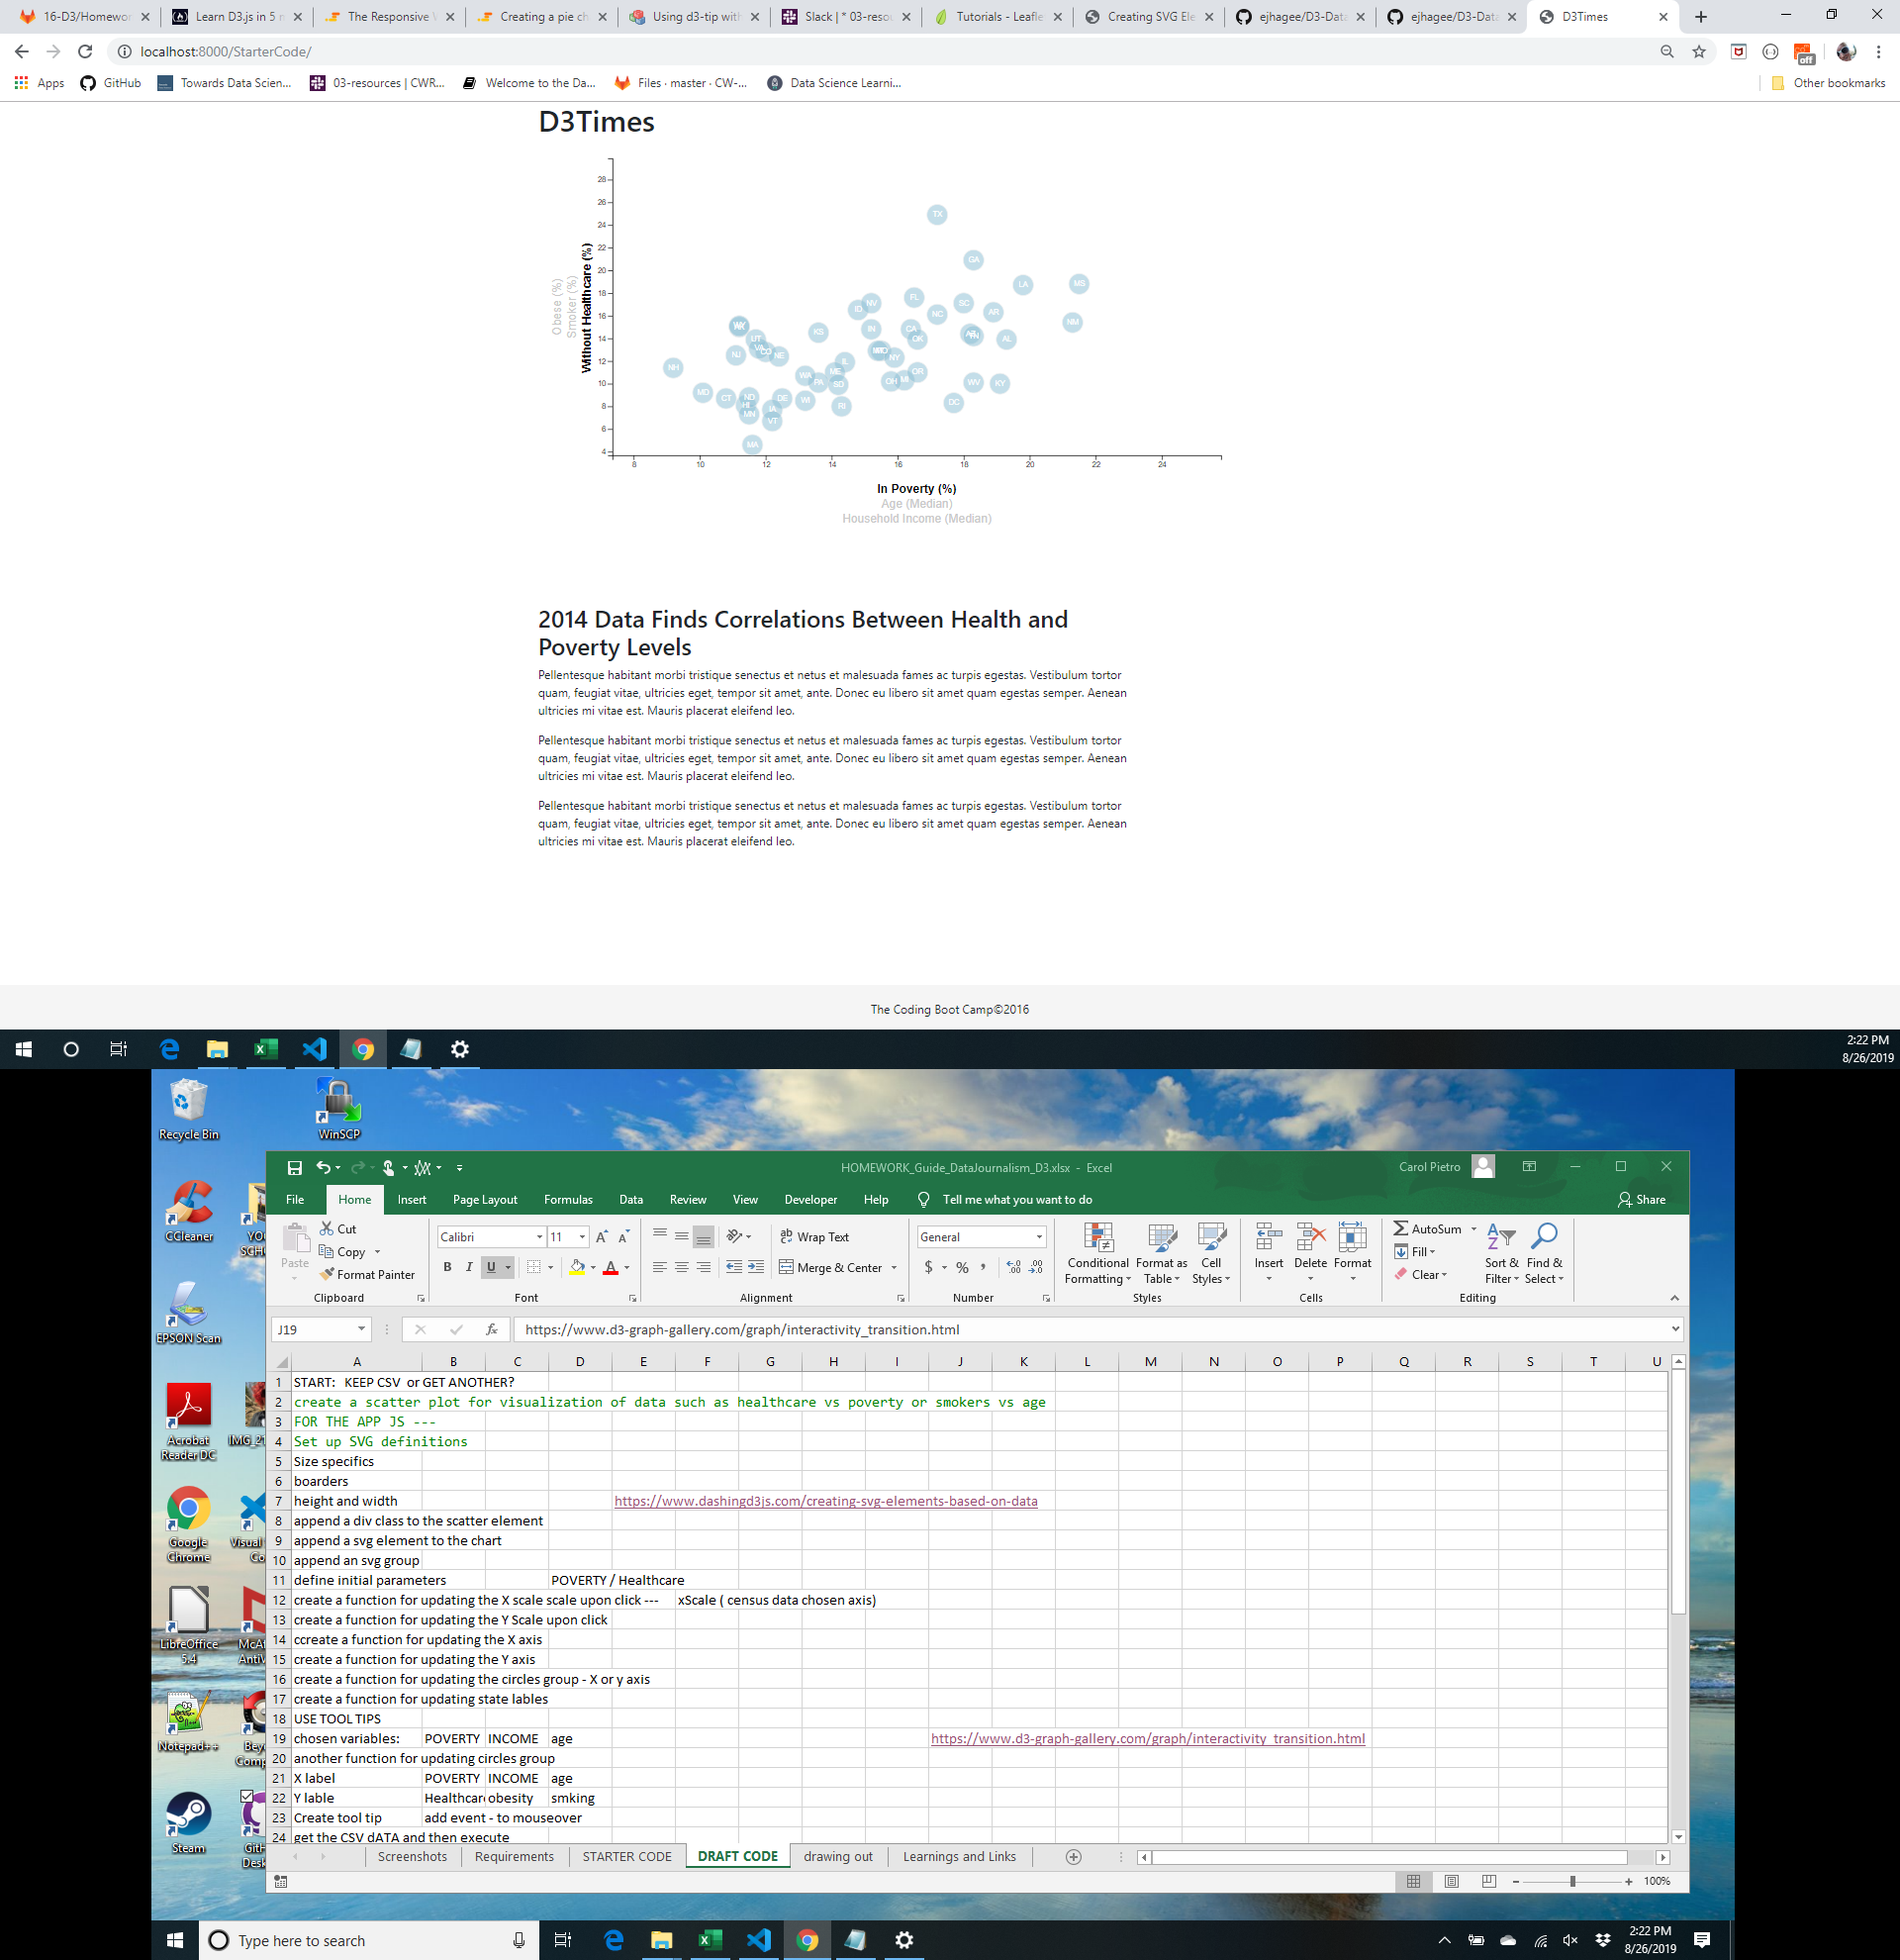
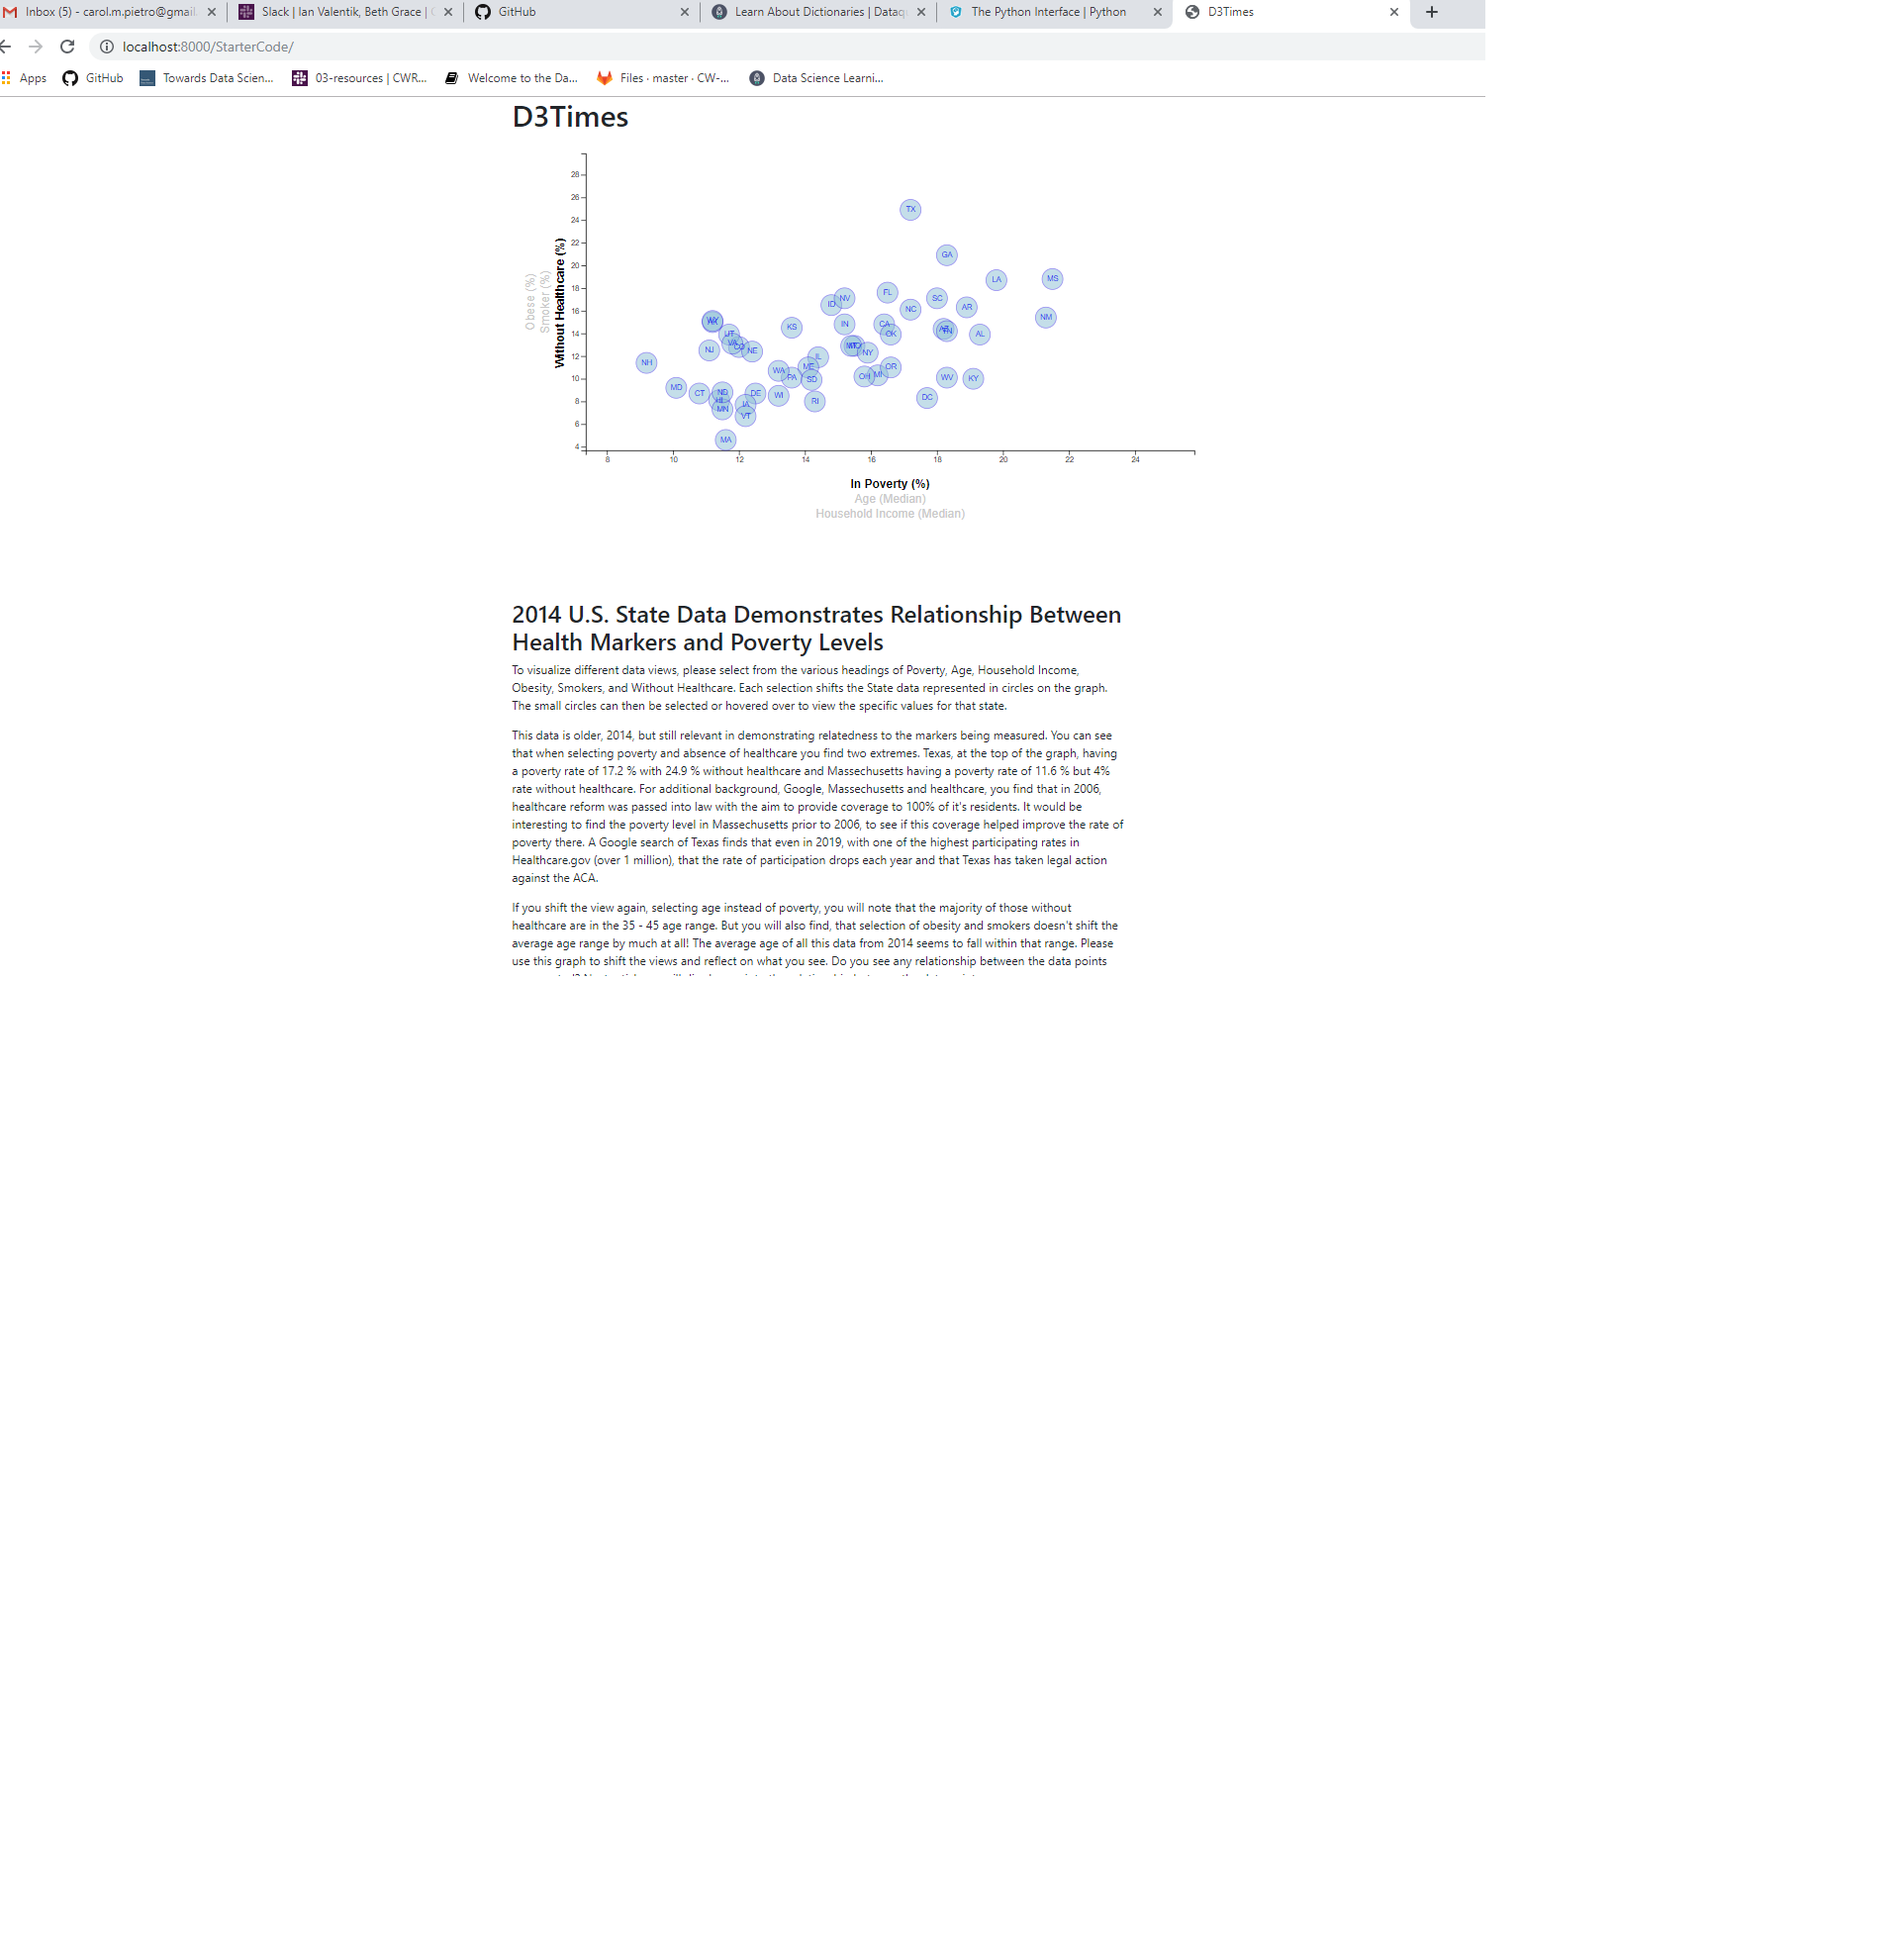
FINAL

diff --git a/index.html b/index.html
@@ -34,18 +34,27 @@
     <div class="row">
       <div class="col-xs-12  col-md-9">
         <div class="article">
-          <h2>2014 Data Finds Correlations Between Health and Poverty Levels</h2>
-          <p>Pellentesque habitant morbi tristique senectus et netus et malesuada fames ac turpis egestas. Vestibulum tortor
-            quam, feugiat vitae, ultricies eget, tempor sit amet, ante. Donec eu libero sit amet quam egestas semper. Aenean
-            ultricies mi vitae est. Mauris placerat eleifend leo.</p>
+          <h2>2014 U.S. State Data Demonstrates Relationship Between Health Markers and Poverty Levels</h2>
+          <p>To visualize different data views, please select from the various headings of Poverty, Age, Household Income, 
+            Obesity, Smokers, and Without Healthcare. Each selection shifts the State data represented in circles on  
+            the graph. The small circles can then be selected or hovered over to view the specific values for that state.  </p>
 
-          <p>Pellentesque habitant morbi tristique senectus et netus et malesuada fames ac turpis egestas. Vestibulum tortor
-            quam, feugiat vitae, ultricies eget, tempor sit amet, ante. Donec eu libero sit amet quam egestas semper. Aenean
-            ultricies mi vitae est. Mauris placerat eleifend leo.</p>
+          <p>This data is older, 2014, but still relevant in demonstrating relatedness to the markers being measured. You can 
+            see that when selecting poverty and absence of healthcare you find two extremes.  Texas, at the top of the graph, 
+            having a poverty rate of 17.2 % with 24.9 % without healthcare and Massechusetts having a poverty rate of 11.6 % 
+            but 4% rate without healthcare. For additional background, Google, Massechusetts and healthcare, you find that in 
+            2006, healthcare reform was passed into law with the aim to provide coverage to 100% of it's residents. It would 
+            be interesting to find the poverty level in Massechusetts prior to 2006, to see if this coverage helped improve 
+            the rate of poverty there.  A Google search of Texas finds that even in 2019, with one of the highest participating 
+            rates in Healthcare.gov (over 1 million), that the rate of participation drops each year and that Texas has taken
+            legal action against the ACA. </p>
 
-          <p>Pellentesque habitant morbi tristique senectus et netus et malesuada fames ac turpis egestas. Vestibulum tortor
-            quam, feugiat vitae, ultricies eget, tempor sit amet, ante. Donec eu libero sit amet quam egestas semper. Aenean
-            ultricies mi vitae est. Mauris placerat eleifend leo.</p>
+          <p>If you shift the view again, selecting age instead of poverty, you will note that the majority of those without 
+            healthcare are in the 35 - 45 age range.  But you will also find, that selection of obesity and smokers doesn't shift
+            the average age range by much at all!  The average age of all this data from 2014 seems to fall within that range. 
+            Please use this graph to shift the views and reflect on what you see.  Do you see any relationship between the data 
+            points represented?  Next article we will dig deeper into the relationship between the data points.   </p>
+
         </div>
       </div>
     </div>

diff --git a/assets/css/d3Style.css b/assets/css/d3Style.css
@@ -26,13 +26,13 @@
 /* font size dependent on radius, see app.js */
 .stateText {
   font-family: sans-serif;
-  fill: #fff;
+  fill: rgb(16, 30, 235);
   text-anchor: middle;
 }
 
 .stateCircle {
   fill: #89bdd3;
-  stroke: #e3e3e3;
+  stroke: #2511e2;
 }
 
 .chart {
@@ -48,7 +48,7 @@
   color: #fff;
   text-align: center;
   text-transform: capitalize;
-  background: rgba(0, 0, 0, 0.8);
+  background: rgba(16, 30, 235, 0.8);
   border-radius: 4px;
 }
 
